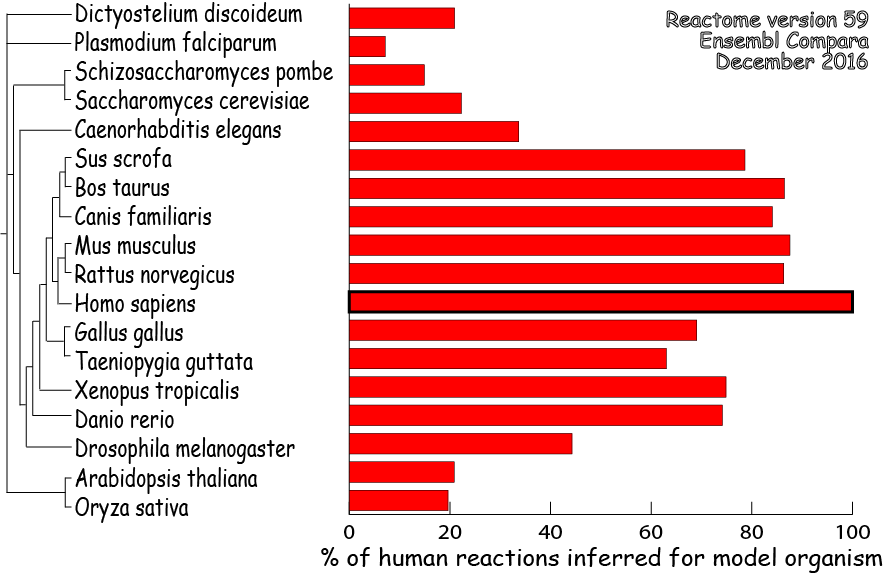
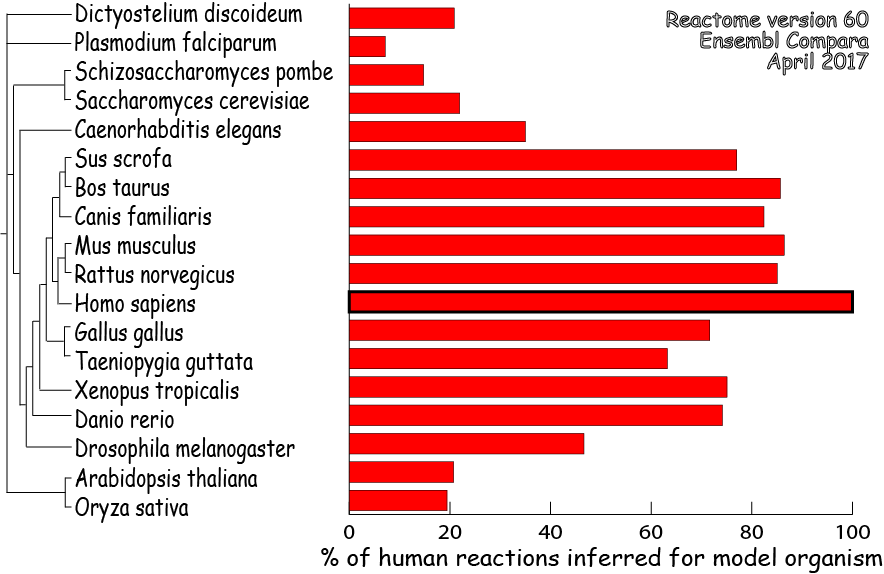
version 60

diff --git a/scripts/release/website_files_update/stats.html b/scripts/release/website_files_update/stats.html
@@ -7,7 +7,7 @@
 
     <body>
 	<!--#include virtual="/cgi-bin/navigation_bar" -->
-	<h1 class="frontpage">Reactome Statistics (Version 59)</h1>
+	<h1 class="frontpage">Reactome Statistics (Version 60)</h1>
 	    
 	<!-- Start of the stats table  -->
 	<table border="0" width="90%" cellpadding="0" cellspacing="0" class="classbrowser">
@@ -23,152 +23,152 @@
 		    
 		    <tr height="18" class="own">
 			<td height="25" class="own">D. discoideum</td>
-			<td class="own" align="center">2042</td>
-			<td class="own" align="center">1815</td>
-			<td class="own" align="center">1631</td>
-			<td class="own" align="center">841</td>
+			<td class="own" align="center">2112</td>
+			<td class="own" align="center">1918</td>
+			<td class="own" align="center">1686</td>
+			<td class="own" align="center">858</td>
 		    </tr>
 		    
 		    <tr height="18" class="own">
 			<td height="25" class="own">P. falciparum</td>
-			<td class="own" align="center">1144</td>
-			<td class="own" align="center">648</td>
-			<td class="own" align="center">555</td>
-			<td class="own" align="center">424</td>
+			<td class="own" align="center">1161</td>
+			<td class="own" align="center">691</td>
+			<td class="own" align="center">577</td>
+			<td class="own" align="center">439</td>
 		    </tr>
 		    
 		    <tr height="18" class="own">
 			<td height="25" class="own">S. pombe</td>
-			<td class="own" align="center">1440</td>
-			<td class="own" align="center">1362</td>
-			<td class="own" align="center">1167</td>
-			<td class="own" align="center">695</td>
+			<td class="own" align="center">1463</td>
+			<td class="own" align="center">1412</td>
+			<td class="own" align="center">1200</td>
+			<td class="own" align="center">712</td>
 		    </tr>
 		    
 		    <tr height="18" class="own">
 			<td height="25" class="own">S. cerevisiae</td>
-			<td class="own" align="center">1558</td>
-			<td class="own" align="center">1932</td>
-			<td class="own" align="center">1810</td>
-			<td class="own" align="center">850</td>
+			<td class="own" align="center">1585</td>
+			<td class="own" align="center">2010</td>
+			<td class="own" align="center">1847</td>
+			<td class="own" align="center">857</td>
 		    </tr>
 		    
 		    <tr height="18" class="own">
 			<td height="25" class="own">C. elegans</td>
-			<td class="own" align="center">4780</td>
-			<td class="own" align="center">2954</td>
-			<td class="own" align="center">2627</td>
-			<td class="own" align="center">1084</td>
+			<td class="own" align="center">5034</td>
+			<td class="own" align="center">3289</td>
+			<td class="own" align="center">2828</td>
+			<td class="own" align="center">1130</td>
 		    </tr>
 		    
 		    <tr height="18" class="own">
 			<td height="25" class="own">S. scrofa</td>
-			<td class="own" align="center">9394</td>
-			<td class="own" align="center">7050</td>
-			<td class="own" align="center">6141</td>
-			<td class="own" align="center">1473</td>
+			<td class="own" align="center">9734</td>
+			<td class="own" align="center">7179</td>
+			<td class="own" align="center">6230</td>
+			<td class="own" align="center">1507</td>
 		    </tr>
 		    
 		    <tr height="18" class="own">
 			<td height="25" class="own">B. taurus</td>
-			<td class="own" align="center">8951</td>
-			<td class="own" align="center">7684</td>
-			<td class="own" align="center">6813</td>
-			<td class="own" align="center">1526</td>
+			<td class="own" align="center">9236</td>
+			<td class="own" align="center">7895</td>
+			<td class="own" align="center">6992</td>
+			<td class="own" align="center">1559</td>
 		    </tr>
 		    
 		    <tr height="18" class="own">
 			<td height="25" class="own">C. familiaris</td>
-			<td class="own" align="center">9683</td>
-			<td class="own" align="center">7514</td>
-			<td class="own" align="center">6566</td>
-			<td class="own" align="center">1504</td>
+			<td class="own" align="center">9993</td>
+			<td class="own" align="center">7683</td>
+			<td class="own" align="center">6669</td>
+			<td class="own" align="center">1541</td>
 		    </tr>
 		    
 		    <tr height="18" class="own">
 			<td height="25" class="own">M. musculus</td>
-			<td class="own" align="center">11020</td>
-			<td class="own" align="center">8459</td>
-			<td class="own" align="center">7491</td>
-			<td class="own" align="center">1568</td>
+			<td class="own" align="center">11521</td>
+			<td class="own" align="center">8699</td>
+			<td class="own" align="center">7697</td>
+			<td class="own" align="center">1608</td>
 		    </tr>
 		    
 		    <tr height="18" class="own">
 			<td height="25" class="own">R. norvegicus</td>
-			<td class="own" align="center">10506</td>
-			<td class="own" align="center">7810</td>
-			<td class="own" align="center">6957</td>
-			<td class="own" align="center">1528</td>
+			<td class="own" align="center">10735</td>
+			<td class="own" align="center">8038</td>
+			<td class="own" align="center">7099</td>
+			<td class="own" align="center">1565</td>
 		    </tr>
 		    
 		    <tr height="18" class="own">
 			<td height="25" class="own">*H. sapiens</td>
-			<td class="own" align="center">10374</td>
-			<td class="own" align="center">10399</td>
-			<td class="own" align="center">10391</td>
-			<td class="own" align="center">2080</td>
+			<td class="own" align="center">10651</td>
+			<td class="own" align="center">10748</td>
+			<td class="own" align="center">10754</td>
+			<td class="own" align="center">2132</td>
 		    </tr>
 		    
 		    <tr height="18" class="own">
 			<td height="25" class="own">G. gallus</td>
-			<td class="own" align="center">7790</td>
-			<td class="own" align="center">6615</td>
-			<td class="own" align="center">5737</td>
-			<td class="own" align="center">1533</td>
+			<td class="own" align="center">8726</td>
+			<td class="own" align="center">7068</td>
+			<td class="own" align="center">6142</td>
+			<td class="own" align="center">1578</td>
 		    </tr>
 		    
 		    <tr height="18" class="own">
 			<td height="25" class="own">T. guttata</td>
-			<td class="own" align="center">6666</td>
-			<td class="own" align="center">5746</td>
-			<td class="own" align="center">4915</td>
-			<td class="own" align="center">1419</td>
+			<td class="own" align="center">7075</td>
+			<td class="own" align="center">5999</td>
+			<td class="own" align="center">5105</td>
+			<td class="own" align="center">1454</td>
 		    </tr>
 		    
 		    <tr height="18" class="own">
 			<td height="25" class="own">X. tropicalis</td>
-			<td class="own" align="center">8328</td>
-			<td class="own" align="center">6677</td>
-			<td class="own" align="center">5841</td>
-			<td class="own" align="center">1468</td>
+			<td class="own" align="center">8811</td>
+			<td class="own" align="center">6905</td>
+			<td class="own" align="center">6069</td>
+			<td class="own" align="center">1498</td>
 		    </tr>
 		    
 		    <tr height="18" class="own">
 			<td height="25" class="own">D. rerio</td>
-			<td class="own" align="center">14148</td>
-			<td class="own" align="center">6617</td>
-			<td class="own" align="center">5784</td>
-			<td class="own" align="center">1467</td>
+			<td class="own" align="center">14607</td>
+			<td class="own" align="center">6810</td>
+			<td class="own" align="center">5995</td>
+			<td class="own" align="center">1511</td>
 		    </tr>
 		    
 		    <tr height="18" class="own">
 			<td height="25" class="own">D. melanogaster</td>
-			<td class="own" align="center">9487</td>
-			<td class="own" align="center">3996</td>
-			<td class="own" align="center">3472</td>
-			<td class="own" align="center">1239</td>
+			<td class="own" align="center">9789</td>
+			<td class="own" align="center">4373</td>
+			<td class="own" align="center">3787</td>
+			<td class="own" align="center">1290</td>
 		    </tr>
 		    
 		    <tr height="18" class="own">
 			<td height="25" class="own">A. thaliana</td>
-			<td class="own" align="center">4381</td>
-			<td class="own" align="center">1821</td>
-			<td class="own" align="center">1624</td>
-			<td class="own" align="center">772</td>
+			<td class="own" align="center">4497</td>
+			<td class="own" align="center">1906</td>
+			<td class="own" align="center">1678</td>
+			<td class="own" align="center">797</td>
 		    </tr>
 		    
 		    <tr height="18" class="own">
 			<td height="25" class="own">O. sativa</td>
-			<td class="own" align="center">4550</td>
-			<td class="own" align="center">1690</td>
-			<td class="own" align="center">1530</td>
-			<td class="own" align="center">761</td>
+			<td class="own" align="center">4674</td>
+			<td class="own" align="center">1754</td>
+			<td class="own" align="center">1569</td>
+			<td class="own" align="center">785</td>
 		    </tr>
 		    
 		    <tr height="18" class="own">
 			<td height="25" class="own">M. tuberculosis</td>
 			<td class="own" align="center">13</td>
-			<td class="own" align="center">58</td>
+			<td class="own" align="center">50</td>
 			<td class="own" align="center">40</td>
 			<td class="own" align="center">12</td>
 		    </tr>
@@ -182,7 +182,7 @@
 
 	<div style="font-size:9pt;text-align:left;color:black;padding-top:10px;width=40%">
 	    *Reactome annotates to protein isoforms when this information is available.<br />
-	    The total number of curated human proteins including isoforms is 10529
+	    The total number of curated human proteins including isoforms is 10811
 	</div>
 
 	<!--#include virtual="/cgi-bin/footer" -->
